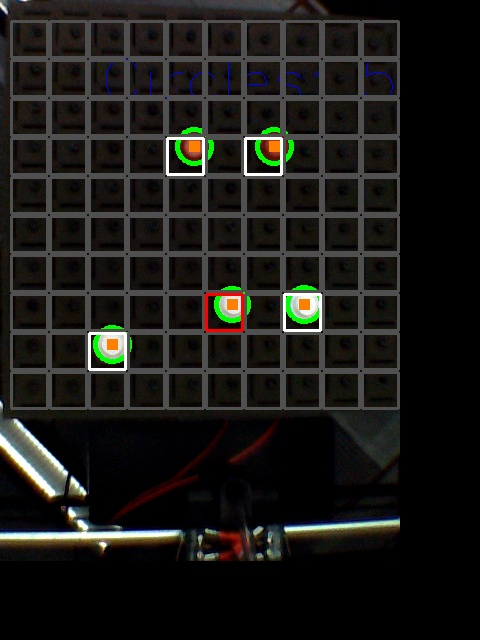
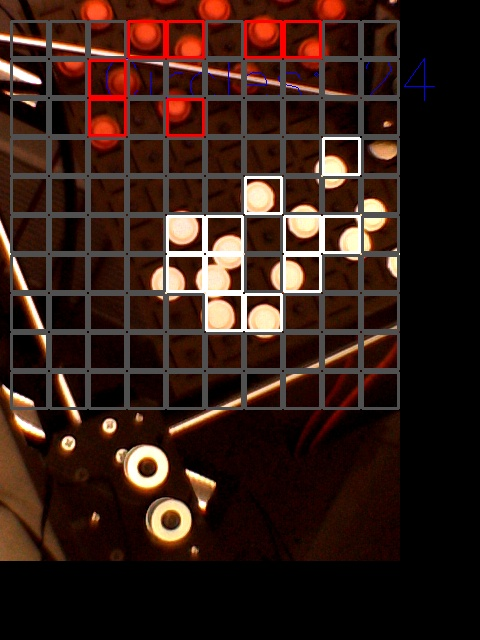
working

diff --git a/checker_cam.py b/checker_cam.py
@@ -40,7 +40,7 @@ def take_picture(mirror=False):
 		img = cv2.cvtColor(img, cv2.COLOR_BGR2GRAY)
 		cv2.imshow('img', img)
 		
-		circles = cv2.HoughCircles(img, cv2.cv.CV_HOUGH_GRADIENT, 1, 20, param1=50, param2=20, minRadius=15, maxRadius=(squaresize+6)/2)
+		circles = cv2.HoughCircles(img, cv2.cv.CV_HOUGH_GRADIENT, 1, 20, param1=100, param2=20, minRadius=15, maxRadius=(squaresize+6)/2)
 		
 		text = "Circles: 0"
 		
@@ -60,8 +60,8 @@ def take_picture(mirror=False):
 			for (x, y, r) in circles:
 					# draw the circle in the output image, then draw a rectangle
 					# corresponding to the center of the circle
-					cv2.circle(output, (x, y), r, (0, 255, 0), 4)	
-					cv2.rectangle(output, (x - 5, y - 5), (x + 5, y + 5), (0, 128, 255), -1)
+					#cv2.circle(output, (x, y), r, (0, 255, 0), 4)	
+					#cv2.rectangle(output, (x - 5, y - 5), (x + 5, y + 5), (0, 128, 255), -1)
 					for x in range(1):
 					  for letter in ('ABCDEFGHIJ'):
 					    for num in range(10):
@@ -71,10 +71,11 @@ def take_picture(mirror=False):
 							    #grid[ord(letter)-65][num].piece = 'X'
 							    #print(grid[ord(letter)-65][num].x, grid[ord(letter)-65][num].y)
 							    #print(circles[i])
-							    c = output[circles[i,0],circles[i,1]]
+							    c = output[circles[i,1],circles[i,0]]
+							    #output[circles[i,1],circles[i,0]] = (255,0,0)
 							    #print " --- color ---"
 							    #print(c)
-							    if (sum(c)<45):
+							    if (sum(c)<450):
 							    	print "Red: %s %d" % (letter, num+1)
       								#print output[grid[ord(letter)-65][num].x, grid[ord(letter)-65][num].y]
 							    	grid[ord(letter)-65][num].piece = 'X'
@@ -83,6 +84,8 @@ def take_picture(mirror=False):
       								#print output[grid[ord(letter)-65][num].x, grid[ord(letter)-65][num].y]
 							    	grid[ord(letter)-65][num].piece = 'O'
 							    print c
+							  
+					break
 					  
 		font = cv2.FONT_HERSHEY_SIMPLEX	
 		cv2.putText(img, text, (100,100), font, 2, 255)
@@ -127,8 +130,8 @@ def take_picture(mirror=False):
 			break  # esc to quit
 		
 		
-		# cv2.destroyAllWindows()
-		# return board
+		cv2.destroyAllWindows()
+		return board
   cv2.destroyAllWindows()
   
 def rotate_image(img, angle):

diff --git a/game_ai.py b/game_ai.py
@@ -19,6 +19,9 @@ def next_move(board):
 def moveparse(action):
 	moves =[]
 	current_action = action 
+	current_action.source = (10 - current_action.source[0], 10 - current_action.source[1])
+	current_action.destination = (10 - current_action.destination[0], 10 - current_action.destination[1])
+	
 	while current_action != None:
 		if current_action.type == "MOVE":
 			moves.append(("pick", chr(current_action.source[1]+65), current_action.source[0]))
@@ -32,7 +35,7 @@ def moveparse(action):
 			moves.append(("discard", 0, 0))
 
 		current_action = current_action.next
-
+	print moves
 	return moves	
 
 

diff --git a/convert_gcode.py b/convert_gcode.py
@@ -52,7 +52,7 @@ def convert_gcode(ser, moveArray):
             #fan off
             comm.ser_command(ser, 'M107')
             # comm.ser_command(ser, 'G1 Z-10')
-            # sleep(2)
+            sleep(2)
             # comm.ser_command(ser, 'G1 Z10')
         
         #z-up
